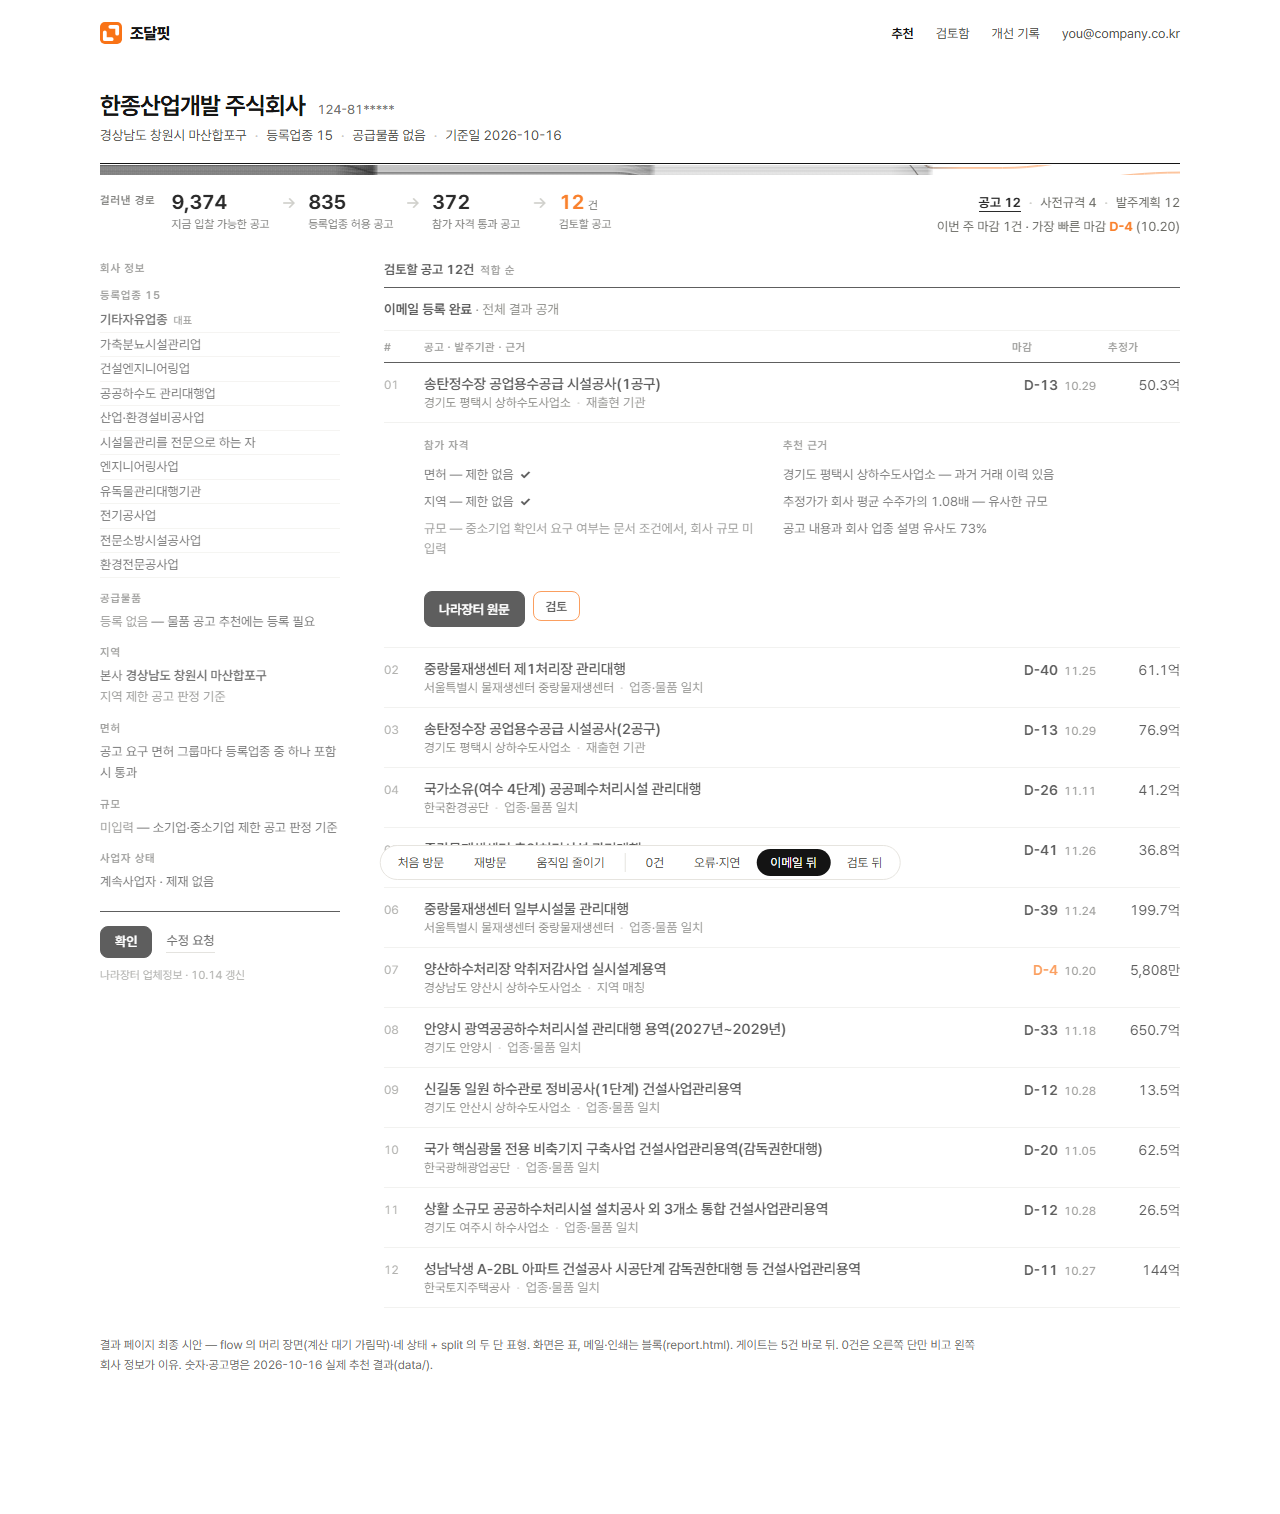
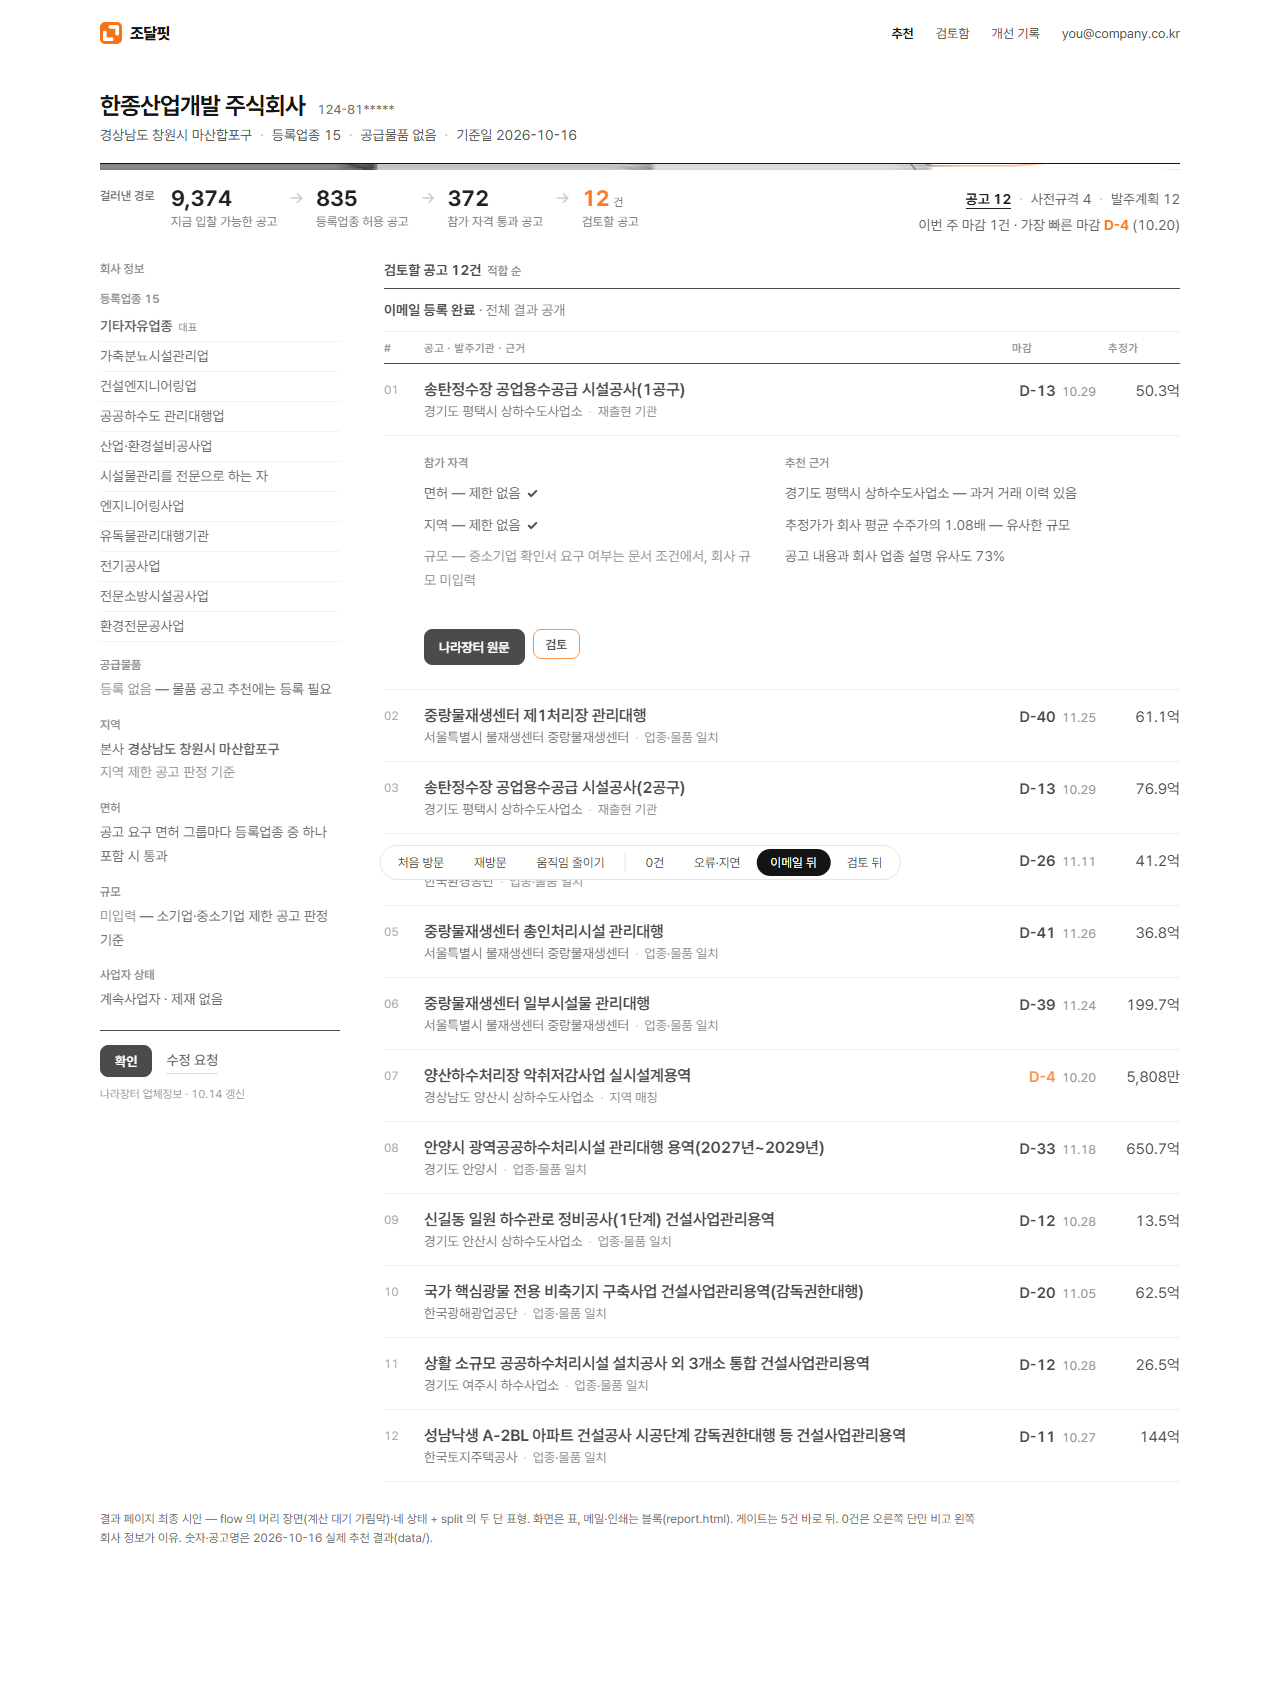
design(results): 최종 시안 가독성 패스 — 글자 한 단계 ↑(제목 16), 행 16px, 한글 라벨 자간·uppercase 제거, 회색 대비 ↑

diff --git a/docs/design/prototypes/results-final.html b/docs/design/prototypes/results-final.html
@@ -172,6 +172,17 @@ a { color:inherit; text-decoration:none } .dim { color:#6b6b67 } .mute { color:#
 .chain b { font-size:20px; line-height:1.15 } .chain b.acc { color:#f97316 } .chain .l { font-size:11.5px; color:#737370; margin-top:3px; line-height:1.3 }
 .chain i { font-size:16px; padding-top:2px } .chain .nl { display:flex; align-items:baseline } .chain .un { font-size:11.5px; color:#6b6b67; margin-left:4px }
 .st-zero .tabs { display:none }   /* 0건이면 종류 탭·마감 요약은 거짓말이 된다(결과 12건 기준 계산) */
+/* 가독성(2026-10-16 승우님 "가독성 좋게") — 글자 한 단계 ↑, 행 간격 ↑, 회색 대비 ↑. 한글 라벨에 자간·대문자 처리는 의미 없어 뺀다 */
+.k { font-size:12px; letter-spacing:0; text-transform:none; color:#6b6b67 } .mute { color:#7a7a76 }
+.head .meta { font-size:14px } .chain b { font-size:22px } .chain .l { font-size:12.5px } .tabs { font-size:14px }
+.side { font-size:14px } .side li { padding:4px 0 } .side .txt { font-size:14px; line-height:1.7 } .side .sec { padding-top:16px }
+.mh .k b { font-size:14px }
+.tr { padding:16px 0 } .tr .t { font-size:16px; font-weight:600 } .tr .sub { font-size:13.5px; color:#4a4a46; margin-top:4px } .tr .sub .why { color:#6b6b67 }
+.tr .d, .tr .r { font-size:15px } .tr .d small { font-size:12.5px }
+.x { padding:20px 0 24px 40px; gap:32px } .x .k { margin-bottom:8px } .x li { font-size:14px; line-height:1.7; padding:4px 0 }
+.gateline { font-size:14.5px; padding:24px 0 } .gateline .dim { font-size:13.5px }
+.zero b { font-size:18px } .zero .dim { font-size:14px } .okline { font-size:14px }
+@media screen and (max-width:720px){ .tr .t { font-size:15px } .tr .sub { font-size:13px } .side { font-size:13.5px } }
 .done .chain { height:auto; padding-top:16px }
 .tabs em { font-style:normal; color:#141414; font-weight:650; border-bottom:1px solid #141414; padding-bottom:1px } .tabs em + span::before { content:"·"; margin:0 8px; color:#c9c9c4 }
 /* 본문은 두 단. 0건이면 오른쪽 단만 비고 왼쪽은 그대로 — 기준이 곧 이유 */

diff --git a/docs/design/scripts/gen_results_final.py b/docs/design/scripts/gen_results_final.py
@@ -28,6 +28,17 @@ CSS = FLOW_CSS + SPLIT_CSS + r"""
 .chain b { font-size:20px; line-height:1.15 } .chain b.acc { color:#f97316 } .chain .l { font-size:11.5px; color:#737370; margin-top:3px; line-height:1.3 }
 .chain i { font-size:16px; padding-top:2px } .chain .nl { display:flex; align-items:baseline } .chain .un { font-size:11.5px; color:#6b6b67; margin-left:4px }
 .st-zero .tabs { display:none }   /* 0건이면 종류 탭·마감 요약은 거짓말이 된다(결과 12건 기준 계산) */
+/* 가독성(2026-10-16 승우님 "가독성 좋게") — 글자 한 단계 ↑, 행 간격 ↑, 회색 대비 ↑. 한글 라벨에 자간·대문자 처리는 의미 없어 뺀다 */
+.k { font-size:12px; letter-spacing:0; text-transform:none; color:#6b6b67 } .mute { color:#7a7a76 }
+.head .meta { font-size:14px } .chain b { font-size:22px } .chain .l { font-size:12.5px } .tabs { font-size:14px }
+.side { font-size:14px } .side li { padding:4px 0 } .side .txt { font-size:14px; line-height:1.7 } .side .sec { padding-top:16px }
+.mh .k b { font-size:14px }
+.tr { padding:16px 0 } .tr .t { font-size:16px; font-weight:600 } .tr .sub { font-size:13.5px; color:#4a4a46; margin-top:4px } .tr .sub .why { color:#6b6b67 }
+.tr .d, .tr .r { font-size:15px } .tr .d small { font-size:12.5px }
+.x { padding:20px 0 24px 40px; gap:32px } .x .k { margin-bottom:8px } .x li { font-size:14px; line-height:1.7; padding:4px 0 }
+.gateline { font-size:14.5px; padding:24px 0 } .gateline .dim { font-size:13.5px }
+.zero b { font-size:18px } .zero .dim { font-size:14px } .okline { font-size:14px }
+@media screen and (max-width:720px){ .tr .t { font-size:15px } .tr .sub { font-size:13px } .side { font-size:13.5px } }
 .done .chain { height:auto; padding-top:16px }
 .tabs em { font-style:normal; color:#141414; font-weight:650; border-bottom:1px solid #141414; padding-bottom:1px } .tabs em + span::before { content:"·"; margin:0 8px; color:#c9c9c4 }
 /* 본문은 두 단. 0건이면 오른쪽 단만 비고 왼쪽은 그대로 — 기준이 곧 이유 */
